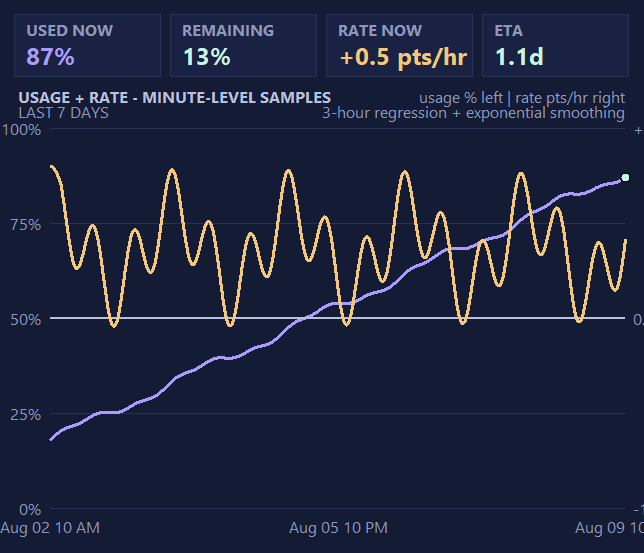
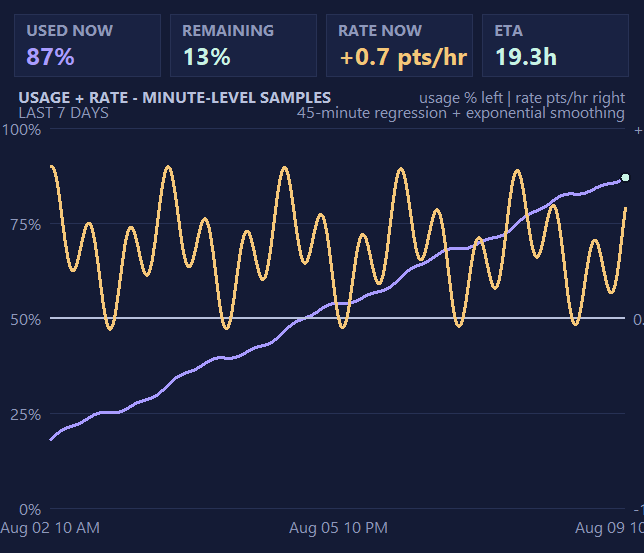
Correct recent usage rate estimate

diff --git a/codex_usage_counter.py b/codex_usage_counter.py
@@ -34,6 +34,7 @@ HISTORY_FILE = CONFIG_DIR / "usage_history.json"
 HISTORY_RETENTION_DAYS = 30
 HISTORY_MAX_POINTS = 60000
 ACTIVE_SIGNAL_MAX_AGE_SECONDS = 10 * 60
+RATE_WINDOW_MINUTES = 45
 STARTUP_SHORTCUT_NAME = "Codex Usage Counter.lnk"
 
 COLORS = {
@@ -310,7 +311,7 @@ class UsageHistory:
         hours: int,
         points: Optional[list[dict[str, float]]] = None,
     ) -> list[dict[str, float]]:
-        """Return hourly trend rates using a reset-aware regression plus EMA."""
+        """Return recent trend rates using a reset-aware regression plus EMA."""
 
         points = points if points is not None else self.chart_points(hours)
         series: list[dict[str, float]] = []
@@ -326,7 +327,7 @@ class UsageHistory:
         sum_xy = 0.0
 
         for point in points:
-            cutoff = point["timestamp"] - 3 * 3600
+            cutoff = point["timestamp"] - RATE_WINDOW_MINUTES * 60
             while window and window[0][0]["timestamp"] < cutoff:
                 _, old_x, old_y = window.popleft()
                 sum_x -= old_x
@@ -1050,9 +1051,9 @@ class UsageApp:
         return "remaining" if self.settings.display_mode == "remaining" else "used"
 
     def _current_rate(self) -> Optional[float]:
-        """Return the latest smoothed usage rate in percentage points per hour."""
+        """Return the latest smoothed recent usage rate in percentage points per hour."""
 
-        period_hours = 24 * 7
+        period_hours = max(1, (RATE_WINDOW_MINUTES + 59) // 60)
         points = self.history.since(period_hours)
         rate_points = self.history.rate_series(period_hours, points)
         if not rate_points:
@@ -1192,7 +1193,6 @@ class UsageApp:
             self.canvas.create_image(35, 35, image=self.icon_image, anchor="center")
 
         self.canvas.create_text(68, 23, text="CODEX USAGE", anchor="w", fill=COLORS["text"], font=("Segoe UI", 10, "bold"))
-        self.canvas.create_text(68, 42, text="A quiet signal for your active allowance", anchor="w", fill=COLORS["muted"], font=("Segoe UI", 8))
 
         if not snapshot.has_data:
             status_text, status_color = "WAITING", COLORS["amber"]
@@ -1701,7 +1701,7 @@ class UsageApp:
         canvas.create_text(625, 96, text="usage % left | rate pts/hr right", anchor="e", fill=COLORS["muted"], font=("Segoe UI", 8))
         scope_label = {24 * 7: "7 DAYS", 24 * 30: "30 DAYS"}.get(self.stats_period_hours, f"{self.stats_period_hours} HOURS")
         canvas.create_text(18, 111, text=f"LAST {scope_label}", anchor="w", fill=COLORS["muted"], font=("Segoe UI", 8))
-        canvas.create_text(625, 111, text="3-hour regression + exponential smoothing", anchor="e", fill=COLORS["muted"], font=("Segoe UI", 8))
+        canvas.create_text(625, 111, text="45-minute regression + exponential smoothing", anchor="e", fill=COLORS["muted"], font=("Segoe UI", 8))
 
         plot_top, plot_bottom = 128, 508
         self.stats_usage_top = plot_top
